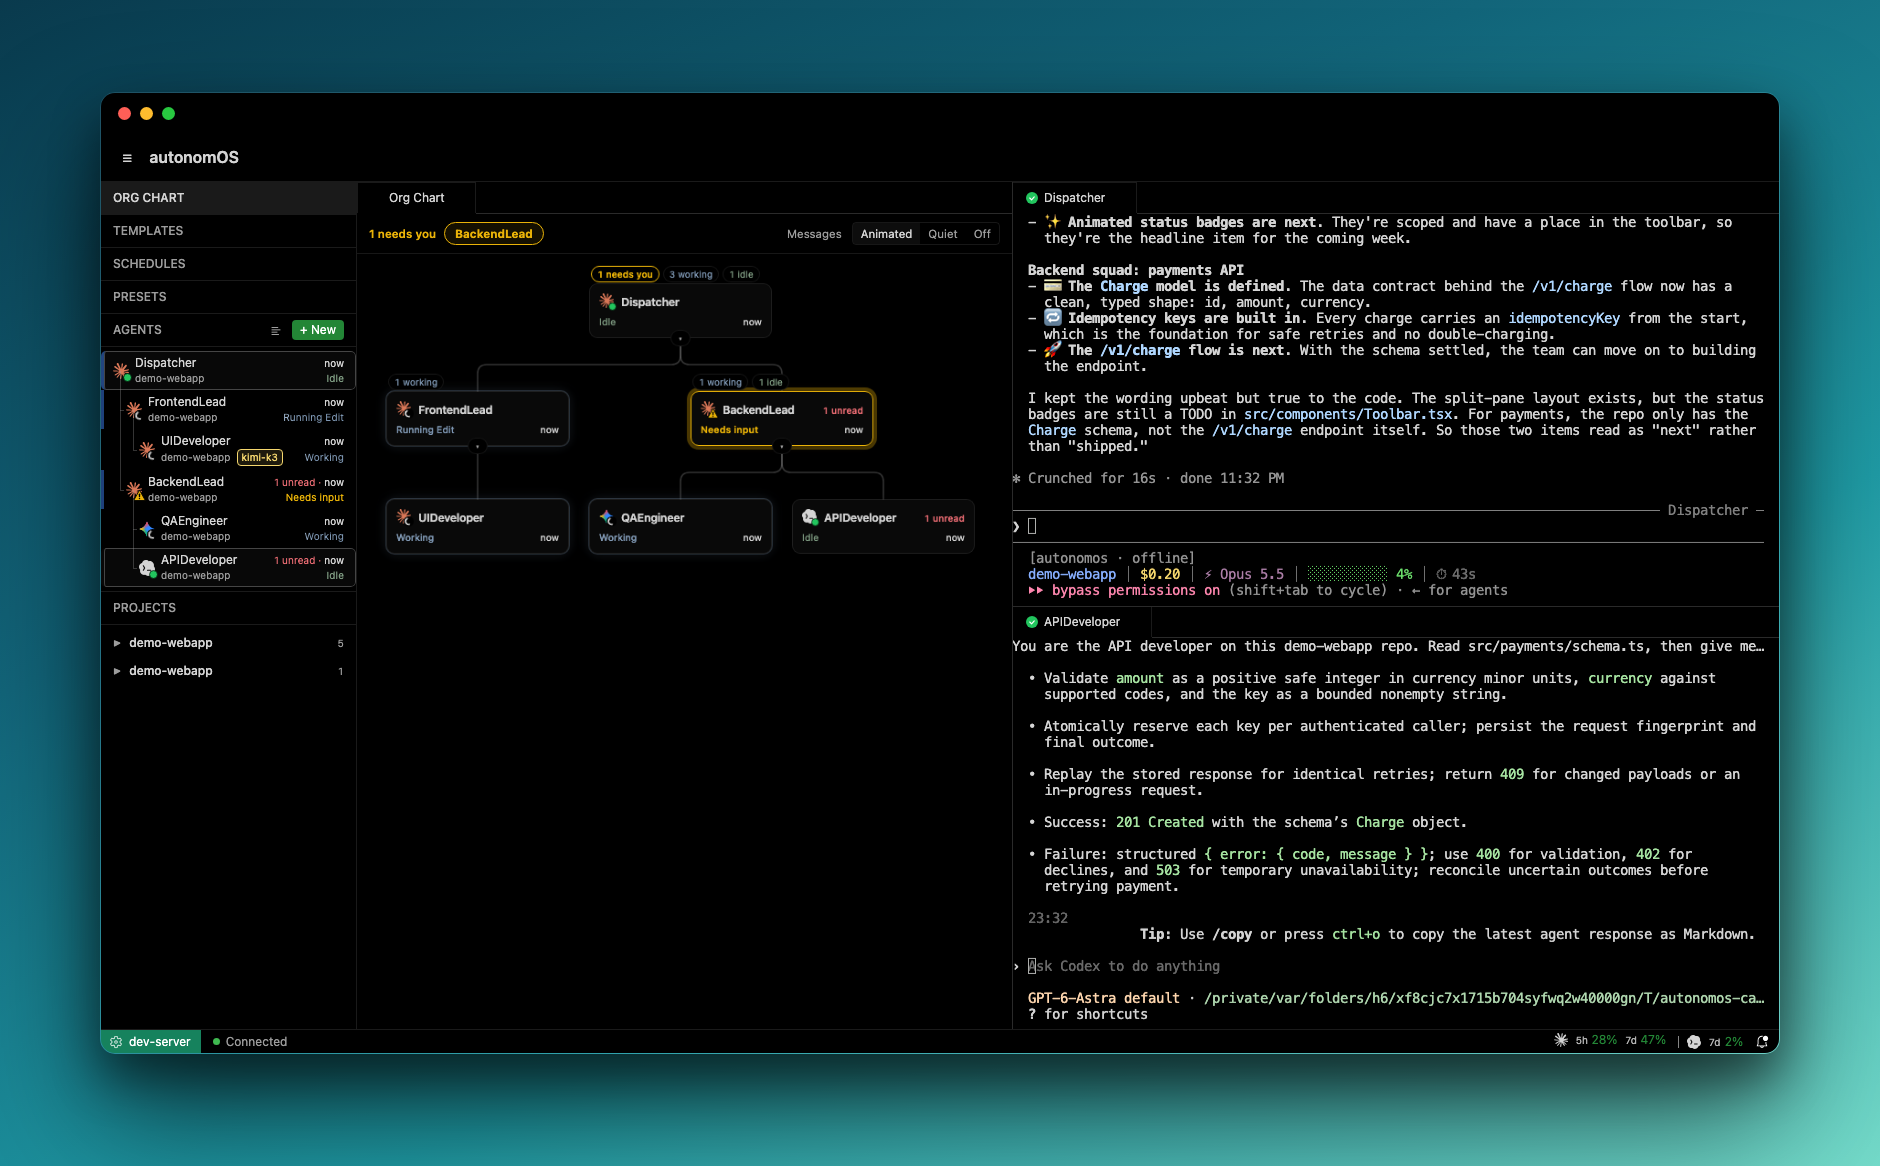
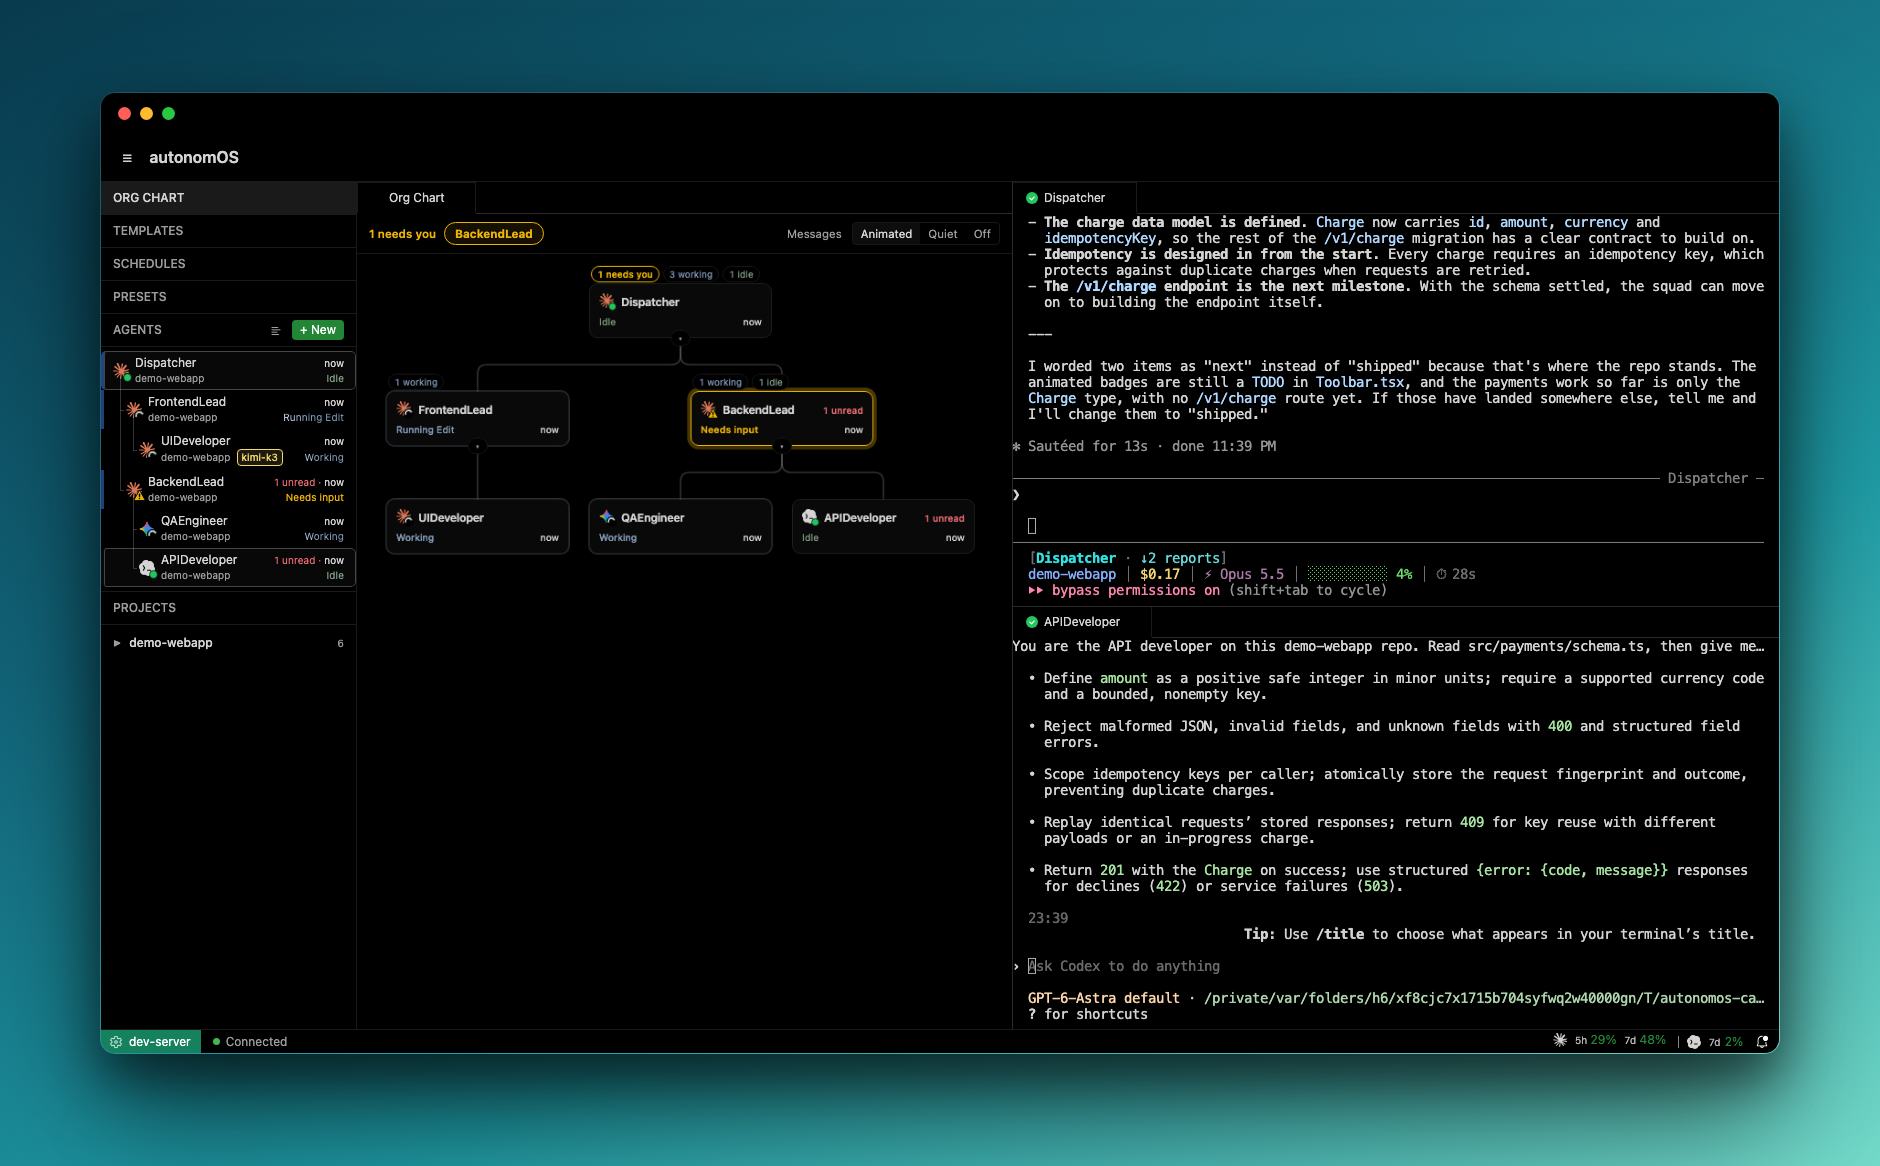
docs: hero re-shot — Projects lists every demo agent in one group; ADR-118 review outcomes
Claude-Session: https://claude.ai/code/session_01CU3bFXWmkL2FPgkbCR5aop

diff --git a/CLAUDE.md b/CLAUDE.md
@@ -90,7 +90,7 @@ A starting prompt travels only as a CLI arg (`claude ... -- <prompt>`), so a sta
 
 **Gemini keeps its chat:** fresh spawns pass `--session-id <agent's providerSessionId>` and respawns pass `--resume <id>`, behind `findGeminiSession`, a three-state pre-flight on the cwd's project under the CHILD's `GEMINI_CLI_HOME`. Each `--resume` writes a stub file reusing the session id, so the scanner collapses by id.
 
-**Projects** lists Claude Code (SDK), Codex (`$CODEX_HOME/sessions` rollouts) and Gemini (`~/.gemini/tmp/*/chats`) via `sessionScanners.ts`: read-only, capped (400 files, 256KB each), mtime-cached, and the route never mutates a scanned row (a mutated cache entry broke matching after the first poll). Managed agents are matched by thread (Codex) or session id (Gemini), and a managed row carries the agent's providerSessionId (what `/attach` resolves) under the agent's own directory. External Codex/Gemini rows can't be resumed yet (the next PR adopts them).
+**Projects** lists Claude Code (SDK), Codex (`$CODEX_HOME/sessions` rollouts) and Gemini (`~/.gemini/tmp/*/chats`) via `sessionScanners.ts`: read-only, capped (400 files, 256KB each), mtime-cached, and the route never mutates a scanned row (a mutated cache entry broke matching after the first poll). Managed agents are matched by thread (Codex) or session id (Gemini), and a managed row carries the agent's providerSessionId (what `/attach` resolves) under the agent's own directory. External Codex/Gemini rows can't be resumed yet (the next PR adopts them). Adoption is gated by the `adoptsExternalSession` provider capability, not by `hasResumableSession` (Gemini has that pre-flight but no adopt path). During a restart's wait, a kill WINS (recorded, no respawn) and a reattach 409s (`assertNotRestarting`).
 
 ### Terminal Streaming & Render Efficiency (ADR-072)
 The terminal pipeline is **PTY → per-connection coalescer → WebSocket → keep-alive client terminal**. Three mechanisms, all measured by the harness in `packages/server/perf/` (read its README before touching any of this):

diff --git a/docs/decisions/ADR-118-projects-lists-every-runtime-single-agent-restart-is-server.md b/docs/decisions/ADR-118-projects-lists-every-runtime-single-agent-restart-is-server.md
@@ -24,6 +24,15 @@
      - A managed agent with no discoverable session still gets a row.
      - Codex and Gemini report cwd as a realpath, so a scanned cwd is mapped back to the raw path the user knows.
      - External (never-managed) Codex/Gemini rows are listed, and clicking one says resume isn't supported yet; adopting them is the next PR.
+  4. **The restart's wait window is owned** (from review):
+     - A kill during it WINS: it's recorded, and the agent stays stopped instead of being respawned.
+     - A reattach during it is refused (409).
+     - The "it is stopped" notice fires only when the agent really was marked stopped.
+     - A server stopping mid-respawn leaves the record `running` for the next boot.
+     - Adoption is its own provider capability (`adoptsExternalSession`, Claude Code only), because Gemini's new resume pre-flight must not open the adopt path early.
+  5. **Deferred, deliberately:**
+     - A post-restart survival check ("Restarted" means it launched; the existing crash nets cover early exits).
+     - Keeping Codex/Gemini rows when the Claude Code listing fails (today that's a visible 500, pinned by a test).
 - **Rationale:** a restart is a server lifecycle operation.
   - Only the server can wait for the old process to exit, and only a single call has a single outcome to report.
   - The Gemini pre-flight meets ADR-100's rule: the destructive onExit net arms only behind a pre-flight that proved the session exists. It finds the session file, as Claude Code's does.
